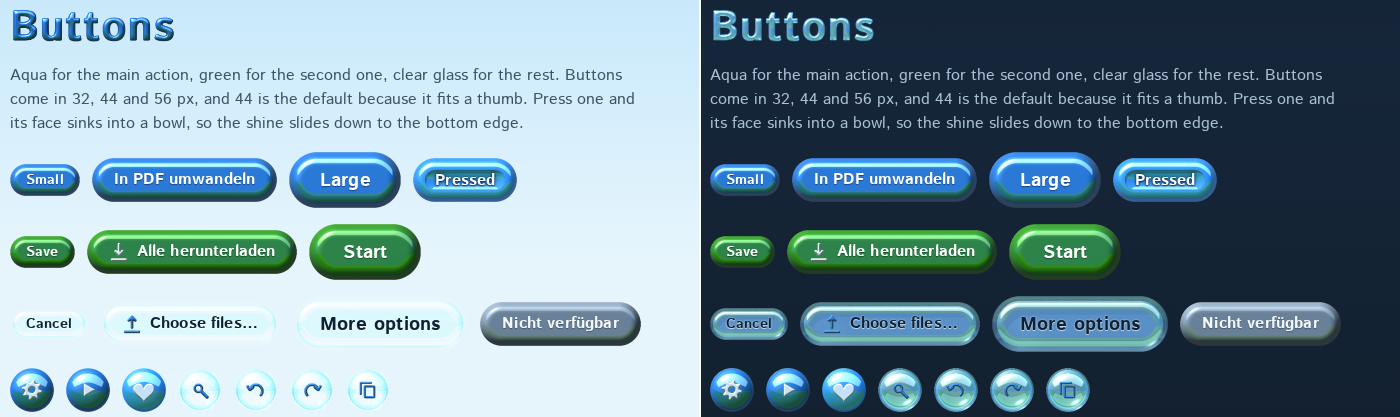
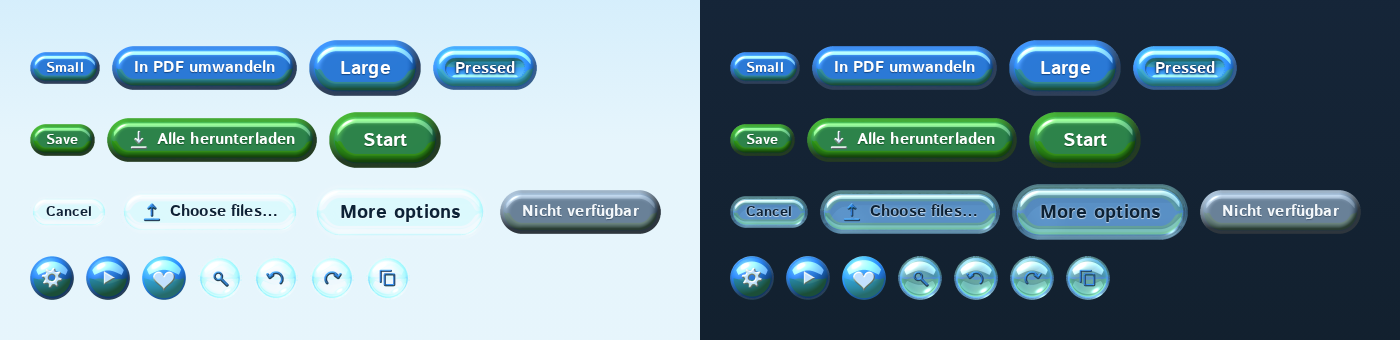
Fewer words: shorter README and showcase intros, hero shows buttons only
README goes from 1866 to 958 words. The hero image drops its heading and
intro text and gets a 40 px margin around the buttons.

Claude-Session: https://claude.ai/code/session_01Eb7NfzvXEsLLBSVyBqPUp6

diff --git a/library/index.html b/library/index.html
@@ -82,7 +82,7 @@
 <main>
   <div class="hero">
     <h1 class="aer-display">Every button here was rendered in Bryce&nbsp;2</h1>
-    <p>Software used to look like glass and water. Aerolith brings that look to the web. I built each button, field and pane as a small 3D scene in Bryce, the landscape renderer from 1996, with a sunny meadow behind the camera. Look closely and you'll find sky in the top half of every button and grass along its lower edge. Underneath it's plain HTML, so forms, keyboards and screen readers work like they always did.</p>
+    <p>Glossy controls for the web. Each one is a Bryce render with a meadow behind the camera, laid over plain HTML.</p>
     <div class="row">
       <a class="aer-button aer-l" href="https://github.com/immineal/aerolith#use-it">Get started</a>
       <a class="aer-button aer-quiet aer-l" href="https://github.com/immineal/aerolith#how-its-made">How it's made</a>
@@ -91,7 +91,7 @@
 
   <section id="buttons" aria-labelledby="h-buttons">
     <h2 class="aer-display" id="h-buttons">Buttons</h2>
-    <p>Aqua for the main action, green for the second one, clear glass for the rest. Buttons come in 32, 44 and 56 px, and 44 is the default because it fits a thumb. Press one and its face sinks into a bowl, so the shine slides down to the bottom edge.</p>
+    <p>Aqua, green and clear glass, at 32, 44 and 56&nbsp;px. Pressed buttons sink in.</p>
     <div class="stack">
       <div class="row">
         <button class="aer-button aer-s">Small</button>
@@ -124,7 +124,7 @@
 
   <section id="inputs" aria-labelledby="h-inputs">
     <h2 class="aer-display" id="h-inputs">Inputs</h2>
-    <p>Under each skin is the browser's own control, so typing, autofill and keyboard focus behave as usual. Fields are pressed into the surface like a shallow well. Whatever you select lights up in aqua.</p>
+    <p>The browser's own controls, under every skin.</p>
     <div class="grid">
       <div class="aer-panel stack">
         <label class="aer-label">File name <input class="aer-field" value="report-2026.pdf"></label>
@@ -174,7 +174,7 @@
 
   <section id="feedback" aria-labelledby="h-feedback">
     <h2 class="aer-display" id="h-feedback">Feedback</h2>
-    <p>Progress is liquid filling a glass tube. Badges are small gems. The spinner is eight separate renders, one per frame, so the sun stays where it is while the orbs go round.</p>
+    <p>Progress fills a glass tube. The spinner is eight separate renders.</p>
     <div class="grid">
       <div class="aer-card stack">
         <label class="aer-label">Converting… <progress class="aer-progress" max="100" value="62">62%</progress></label>
@@ -200,7 +200,7 @@
 
   <section id="surfaces" aria-labelledby="h-surfaces">
     <h2 class="aer-display" id="h-surfaces">Surfaces</h2>
-    <p>Glass is frosted on a light page and smoked on a dark one, so Bryce rendered every pane for both. In Chrome and Edge the clear lens also bends whatever is behind its rim. Follow a stripe as it crosses the rim and you'll see it kink.</p>
+    <p>Frosted on light pages, smoked on dark ones. In Chrome and Edge the lens bends what's behind its rim.</p>
     <div class="grid">
       <div class="stack">
         <div class="aer-panel"><h3 style="margin-top:0">Panel</h3><p style="margin:0">Big frosted pane for grouping a tool's settings.</p></div>
@@ -231,7 +231,7 @@
 
   <section id="icons" aria-labelledby="h-icons">
     <h2 class="aer-display" id="h-icons">Icons</h2>
-    <p>35 icons, each drawn as a height map and pressed into a Bryce lattice like a stamp into wax. Aqua icons stand on their own, pearl ones sit on coloured buttons. The 16 px set is its own render, not the 24 px set scaled down.</p>
+    <p>35 icons, rendered at 24 and 16&nbsp;px. Aqua on their own, pearl on buttons.</p>
     <span class="on-aqua" aria-hidden="true"><span class="aer-icon aer-pearl aer-icon-heart"></span><span class="aer-icon aer-pearl aer-icon-play"></span><span class="aer-icon aer-pearl aer-icon-gear"></span></span>
     <ul class="icons" style="margin-top: var(--aer-space-4)">
       <li><span class="aer-icon aer-icon-heart" aria-hidden="true"></span><span class="aer-icon aer-s aer-icon-heart" aria-hidden="true"></span><span class="aer-icon aer-pearl aer-icon-heart" aria-hidden="true"></span><code>heart</code></li>
@@ -275,7 +275,7 @@
 
   <section id="type" aria-labelledby="h-type">
     <h2 class="aer-display" id="h-type">Type</h2>
-    <p>Titles are set in Aerolith Display. Each letter is a little gel tube rendered in Bryce, packed into a colour font, so it's still real text you can select and search. It needs room to shine, so keep it to 32&nbsp;px and up. Glass is clear, so give it colour or a picture to sit on. Everything else is set in Istok Web or Selawik, an open stand-in for Segoe UI.</p>
+    <p>Titles use Aerolith Display, a colour font of rendered letters, from 32&nbsp;px up. Body text uses Istok Web or Selawik.</p>
     <div class="type-row">
       <p class="aer-display aer-aqua">Aqua</p>
       <span class="on-sky"><span class="aer-display aer-glass" style="font-size: 4rem">Glass</span></span>

diff --git a/README.md b/README.md
@@ -1,33 +1,20 @@
 # Aerolith
 
-Glossy buttons and real glass for the web, in the Frutiger Aero style. I rendered every button,
-field, pane and icon in Bryce 2, the landscape renderer from 1996, and the CSS lays them over plain
-HTML elements.
+Frutiger Aero for the web. Every button, field, pane, icon and title letter is a Bryce 2 render
+(1996), laid over plain HTML elements.
 
 **[Live showcase](https://immineal.github.io/aerolith/)** · [npm](https://www.npmjs.com/package/aerolith) · [Changelog](CHANGELOG.md)
 
-![Aerolith components in light and dark mode](docs/images/hero.png)
-
-Behind the camera in every render there's a sunny meadow, so each glossy button carries a bit of
-blue sky in its top half and green grass along its lower edge. The glass is real Bryce glass and
-stays see-through on your page. Press a button and its face sinks into a bowl, so the shine slides
-to the bottom. None of it is a CSS gradient.
+![Aerolith buttons in light and dark mode](docs/images/hero.png)
 
 ## Use it
 
-There's no build step. Link the stylesheet, and the script if you want the extras:
+No build step:
 
 ```html
 <link rel="stylesheet" href="https://cdn.jsdelivr.net/npm/aerolith@1/library/dist/aerolith.css">
 <script src="https://cdn.jsdelivr.net/npm/aerolith@1/library/dist/aerolith.js" defer></script>
 ```
-
-jsDelivr also serves the files straight from GitHub
-(`https://cdn.jsdelivr.net/gh/immineal/aerolith@v1.1.0/library/dist/aerolith.css`), and the
-release zip has them too. If you host them yourself, keep `sprites/` and `fonts/` next to
-`aerolith.css`, because the CSS looks for the images and fonts relative to itself.
-
-Then put the classes on ordinary elements:
 
 ```html
 <button class="aer-button">Convert to PDF</button>
@@ -43,39 +30,19 @@ Then put the classes on ordinary elements:
 </button>
 ```
 
-Put `class="aer"` on `<body>` or any container to get the focus ring and the reduced-motion rules.
-The showcase uses every component, so view its source when you need an example.
-
-### Package managers
+`class="aer"` on `<body>` adds the focus ring and reduced-motion rules. The showcase source has an
+example of every component. Self-hosting: keep `sprites/` and `fonts/` next to `aerolith.css`.
 
 | Where | Install | Then |
 |---|---|---|
-| npm | `npm i aerolith` | `import "aerolith/aerolith.css"` (and `import "aerolith/aerolith.js"`) |
-| GitHub Packages | `npm i @immineal/aerolith --registry=https://npm.pkg.github.com` | same, under `@immineal/aerolith` |
+| npm | `npm i aerolith` | `import "aerolith/aerolith.css"` (and `aerolith/aerolith.js`) |
+| GitHub Packages | `npm i @immineal/aerolith --registry=https://npm.pkg.github.com` | same |
 | Composer | `composer require immineal/aerolith` | serve `vendor/immineal/aerolith/library/dist/` |
 | PyPI | `pip install aerolith` | `aerolith.static_dir()`; Django: add `"aerolith"` to `INSTALLED_APPS` |
-| CDN | unpkg, jsDelivr, esm.sh mirror the npm package | see above |
+| CDN | jsDelivr, unpkg, esm.sh | or `cdn.jsdelivr.net/gh/immineal/aerolith@v1.1.0/library/dist/aerolith.css` |
 
-### Frameworks
-
-Aerolith is just classes on native elements, so React, Vue and friends need no wrappers. Import the
-stylesheet once:
-
-```js
-// React (Vite, Next.js), Vue, Svelte, Solid: in your entry file or root layout
-import "aerolith/aerolith.css";
-import "aerolith/aerolith.js";   // optional: slider fill, drop zone, theme switch, lens
-```
-
-```astro
----
-// Astro: in a layout
-import "aerolith/aerolith.css";
----
-```
-
-In JSX it's `className="aer-button"`. If your router adds components after the page has loaded,
-call `window.Aerolith.init(container)` so the script picks them up.
+React, Vue, Svelte, Astro: import the CSS once in your entry file and use the classes
+(`className` in JSX). Content added after load needs `window.Aerolith.init(container)`.
 
 ## Components
 
@@ -102,132 +69,75 @@ call `window.Aerolith.init(container)` so the script picks them up.
 | `.aer-bar` | `<header>`, `<nav>` | |
 | `.aer-lens` | any block | rim refraction in Chromium |
 | `.aer-compare` | two `<img>` and an `<input type="range">` | |
-| `.aer-display` (+ `.aer-aqua`, `.aer-glass`, `.aer-pearl`) | any heading | 116 characters, Latin with German and French accents |
+| `.aer-display` (+ `.aer-aqua`, `.aer-glass`, `.aer-pearl`) | any heading | 116 characters |
 
 ### Type
 
-Titles are set in **Aerolith Display**, gel letters I rendered in Bryce one by one, like the
-buttons. They're packed into a colour font, so a title is still real text that you can select,
-search and read with a screen reader. The letters are rendered at about 80 px per em and look best
-from 32 px up, so use them for headings, not paragraphs.
-
 ```html
-<h1 class="aer-display">Welcome back</h1>            <!-- aqua; clear glass on dark pages -->
-<h2 class="aer-display aer-glass">Photos</h2>        <!-- clear glass: put colour or a photo behind it -->
-<p class="aer-display aer-pearl">Ready</p>           <!-- white, for coloured or photo backgrounds -->
-<p class="aer-display aer-aqua">Inbox</p>            <!-- aqua even on a dark page -->
+<h1 class="aer-display">Welcome back</h1>            <!-- aqua; glass on dark pages -->
+<h2 class="aer-display aer-glass">Photos</h2>        <!-- clear glass: needs colour behind it -->
+<p class="aer-display aer-pearl">Ready</p>           <!-- white, for coloured backgrounds -->
 ```
 
-Glass is see-through, so on a plain pale page it all but disappears. On dark pages a plain
-`.aer-display` switches to the glass face, because the deep aqua blue sinks into the dark
-background there.
+Aerolith Display is a colour font of rendered gel letters, so titles stay real, selectable text.
+Use it from 32 px up. Each material is about 0.6 MB, loaded only where used. Browsers without
+colour fonts show heavy Istok.
 
-Each material is two files: OpenType-SVG for Firefox and Safari, sbix bitmaps for Chrome and
-Edge. The CSS lists both with `tech()`, so a browser downloads only the one it can draw: about
-0.6 MB per material, and only for the materials a page actually uses. A browser without colour
-fonts shows the same title in heavy Istok.
-
-Everything else is set in **Istok Web**, bundled. If you prefer the Windows Vista and 7 look, put
-`data-aer-type="selawik"` on `<html>` (or any container) to switch to **Selawik**, Microsoft's
-open stand-in for Segoe UI. `.aer-glow` puts a soft halo of page colour behind text on busy
-backgrounds, like Vista's window titles.
-
-Dark mode follows the system setting. To force it, set `<html data-theme="dark">` (or `"light"`),
-or put `.aer-dark` on one part of the page. The sun and moon switch (`input[data-aer-theme]`) sets
-the attribute for you and remembers the choice.
+Body text is **Istok Web**. `data-aer-type="selawik"` switches to **Selawik**, an open Segoe UI
+stand-in. Dark mode follows the system; `data-theme="dark"` or `"light"` on `<html>` forces it,
+and the sun/moon switch (`input[data-aer-theme]`) sets that for you.
 
 ## Accessibility
 
-The skins sit on top of real form controls, so keyboards, screen readers, autofill and form
-submission work as they would without Aerolith.
+Real form controls sit under every skin, so keyboards, screen readers and autofill work as usual.
 
-I measured label contrast on the rendered pixels, taking the darkest 5 % of the area behind the
-text and leaving out the text halo. White on aqua comes out at 4.4:1, white on green at 4.7:1,
-and dark text on clear glass at 4.6:1 or better in both themes. Hover and pressed states are
-lighter, so their labels get a stronger halo.
-
-- Controls are 44 px high by default. The small ones (checkbox, radio, close orb) still have a
-  44 px hit area, through their label or a pseudo-element.
-- In Windows high contrast mode (`forced-colors`) the sprites go away and system colours take
-  over. Icons turn `CanvasText`.
-- With `prefers-reduced-motion` the spinner stands still and the toggle, toast and dialog
-  animations are off.
-
-Where the look and accessibility pulled in different directions, I did the cheap fixes first
-(text colour, halos, hit areas) and then let the look win. Without their halo, glossy hover
-states measure 3.3 to 3.6:1, and pressed states about 2.4:1 because the sunken face catches more
-light. You only see those states while the pointer is on the button.
-`python3 library/build/a11y.py` prints the numbers for every sprite with a label.
+- Label contrast, measured on the rendered pixels: white on aqua 4.4:1, white on green 4.7:1,
+  dark on glass 4.6:1 or better. Hover states measure 3.3 to 3.6:1 without their halo, pressed
+  about 2.4:1. There the look won. `python3 library/build/a11y.py` prints every number.
+- Controls are 44 px high; small ones get a 44 px hit area.
+- `forced-colors` swaps the sprites for system colours. `prefers-reduced-motion` stops the
+  animations.
 
 ## How it's made
 
 ![The three render passes of one sprite](docs/images/passes.png)
 
-Bryce 2.1 for Windows runs under Wine on a virtual display, seven copies at once. A Python script
-writes each scene as a Bryce `.brc` file. Nobody had documented that format, so I worked it out
-and wrote it up in [docs/brc-format.md](docs/brc-format.md). Every sprite gets rendered three
-times:
+Bryce 2.1 runs under Wine on virtual displays, seven at once. Python writes each scene as a
+`.brc` file; I reverse-engineered the format in [docs/brc-format.md](docs/brc-format.md). Each
+sprite is rendered alone, three times: over black (colour and glints), over grey (how much light
+the glass lets through) and as a flat mask. From those the build makes PNGs where gloss is solid
+and glass is see-through.
 
-1. **K.** Over black. This gives the colour and every glint.
-2. **W.** Over mid grey. Comparing it with K shows how much light the glass lets through.
-3. **M.** In flat colours, as a mask of which pixels are solid and which are glass.
+![Button states and orbs at 3x](docs/images/closeup.png)
 
-From those three, the build makes PNGs with real transparency. Gloss stays solid and glass stays
-see-through. A second pass for dark pages turns frosted glass into smoked glass.
+Behind the camera is a sky and a meadow with two hills, so every button reflects blue on top and
+green below. The shapes are height fields computed in NumPy. The CSS draws sprites with
+`border-image`.
 
-Each sprite sits alone in its own scene. When I rendered them side by side, every button mirrored
-its neighbours, and that looked random once the sheet was cut apart. The camera is 4000 units away
-with a long lens, so there's almost no perspective, and one CSS pixel is exactly six render
-pixels. The build scales that down to 3x, 2x and 1x.
-
-![Button states and orbs at 3x: the sky in the top half, the meadow in the lower bevel](docs/images/closeup.png)
-
-The meadow is behind the camera: a painted sky, a big soft light for the shine across the top,
-and a tilted field with two hills. The camera never sees it directly. You only ever see it
-reflected.
-
-The shapes are Bryce height fields that NumPy computes. Buttons are rounded rectangles with a soft
-bevel, pressed buttons get a bowl, fields get a shallow well, and icons are embossed from
-drawings. The CSS draws each sprite with `border-image`, with slice sizes in image pixels for
-each resolution. Chromium, Firefox and WebKit all handle that the same way. They don't agree on
-`image-set()` inside `border-image`, so I avoided it.
-
-## Rebuild it yourself
-
-The finished sprites are already in `library/dist/`, so you only need this to make new ones. You
-need Wine and your own copy of Bryce 2 for Windows. This repo doesn't include Bryce and never
-will.
+To render new sprites you need Wine and your own copy of Bryce 2 (not included):
 
 ```sh
 cd library/build
-python3 build.py              # renders what changed (hash cache), exports, writes dist/
-python3 build.py btn-         # only sprites whose names start with btn-
+python3 build.py              # renders what changed, exports to dist/
+python3 build.py btn-         # only sprites starting with btn-
 python3 build.py --export-only
-python3 shots.py              # screenshots in Chromium, Firefox, WebKit, light and dark
 ```
 
-How to set up the renderer is in [harness/README.md](harness/README.md). The design rules are in
+Setup: [harness/README.md](harness/README.md). Design rules:
 [docs/ui-library/foundations.md](docs/ui-library/foundations.md).
 
 ## What it does not do
 
-- **No colour picker.** The colours are baked into the renders. A new colour means rendering
-  again.
-- **Three heights.** Buttons are 32, 44 or 56 px tall. They stretch sideways, not up.
-- **The lens only bends light in Chrome and Edge.** It needs an SVG filter inside
-  `backdrop-filter`, and only Chromium supports that. Firefox and Safari show the same clear
-  glass without the bend.
-- **No React or Vue components.** You put the classes on your own elements.
-- **No icon font or SVGs.** The 35 icons are bitmaps at 16 and 24 px, and they get blurry if
-  you scale them up.
-- **The display face is for titles.** Its letters are bitmaps too: sharp up to about 120 px on
-  a 2x screen, soft beyond that, and hard to read below 24 px. It covers Latin letters, digits,
-  common punctuation and German and French accents, nothing else.
+- **No colour picker.** Colours are baked into the renders.
+- **Three heights.** 32, 44 or 56 px; buttons stretch sideways only.
+- **The lens bends light only in Chromium.** Firefox and Safari show plain glass.
+- **No framework components.** Put the classes on your own elements.
+- **Bitmap icons and titles.** Icons are 16 and 24 px. Titles are sharp up to about 120 px and
+  cover Latin with German and French accents.
 
 ## License
 
-MIT, for the code and the sprites. See [LICENSE](LICENSE). The fonts in `library/dist/fonts/` are
-under the SIL Open Font License 1.1, and their licence files sit next to them. Istok Web is by
-Andrey V. Panov and Selawik by Microsoft; both ship unmodified. Aerolith Display is derived from
-Istok Web Bold, so it is OFL too. Bryce is a trademark of its owner.
-Aerolith has nothing to do with them officially and contains no part of the Bryce software.
+MIT for code and sprites ([LICENSE](LICENSE)). Fonts in `library/dist/fonts/` are SIL OFL 1.1:
+Istok Web (Andrey V. Panov) and Selawik (Microsoft) unmodified, Aerolith Display derived from
+Istok Web Bold. Bryce is a trademark of its owner; Aerolith is not affiliated and contains no
+Bryce code.
